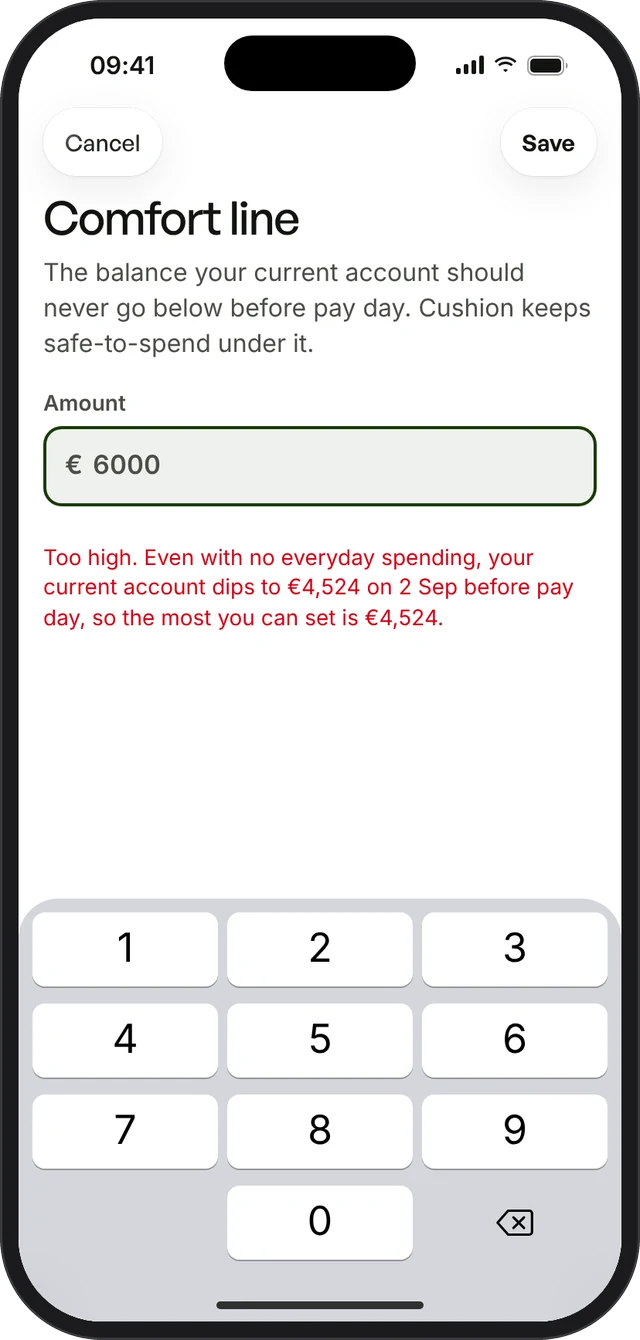
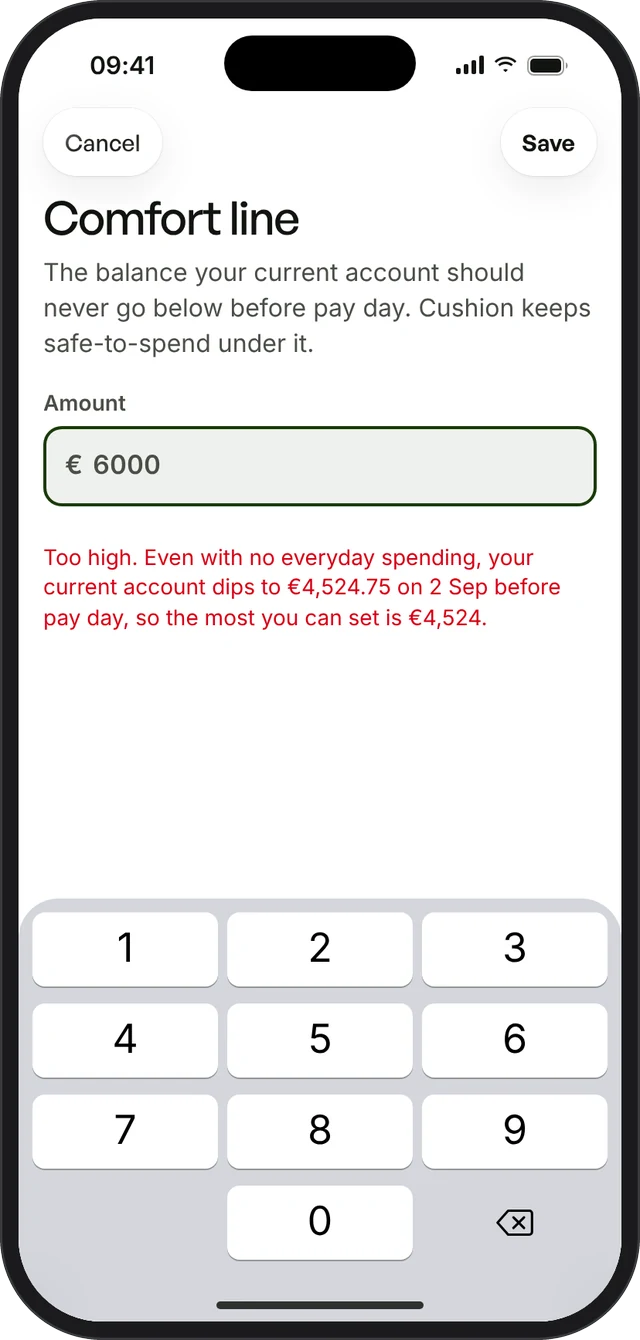
Cushion case study review fixes
- Typography: both faces get an Aa specimen, no empty gap; money card shows row amounts
- Problem quote labelled Before Cushion (photo isn't Lena)
- Intro quote card no longer padded with empty space on phones
- App: comfort-line error shows the exact low point, matching The month ahead

Claude-Session: https://claude.ai/code/session_01JSvXBzoWrq8YzxT9cABVqA

Changed region(s): [[0.4688, 0.4284, 0.9062, 0.4896], [0.125, 0.459, 0.4375, 0.4896], [0.0625, 0.459, 0.0938, 0.4896]]

diff --git a/cushion-case/index.html b/cushion-case/index.html
@@ -212,7 +212,16 @@ p { margin: 0; }
 .ts-name { font-size: 13px; color: var(--ink); display: grid; gap: 2px; }
 .ts-name em { font-style: normal; color: var(--muted); font-variant-numeric: tabular-nums; }
 .ts-demo { color: var(--ink); line-height: 1.15; min-width: 0; overflow-wrap: anywhere; }
-.money-type { align-content: space-between; gap: 20px; }
+.money-type { align-content: space-between; gap: 28px; }
+.mt-rows { display: grid; font-family: var(--sf); font-size: 15px; }
+.mt-rows div { display: flex; justify-content: space-between; gap: 12px; padding: 11px 0; border-top: 1px solid rgba(255, 255, 255, .1); color: #B9C7C1; }
+.mt-rows b { font-family: var(--sans); font-weight: 500; color: #fff; font-variant-numeric: tabular-nums; }
+.mt-rows b.in { color: var(--lime); }
+.tf { display: grid; gap: 12px; align-content: center; align-self: stretch; padding-bottom: 24px; }
+.tf + .tf { border-top: 1px solid var(--line); padding: 24px 0 0; }
+.tf .aa { font-size: 88px; }
+.tf h3 { font-size: 24px; font-weight: 400; margin: 0 0 4px; }
+.tf.sf, .tf.sf h3, .tf.sf .aa, .tf.sf .small { font-family: var(--sf); }
 .money-type .cap { font-size: 15px; font-weight: 500; font-family: var(--sf); }
 .big-num { font-size: 88px; font-weight: 500; letter-spacing: -.03em; line-height: 1; color: #fff; }
 .big-num .cur { font-size: .32em; vertical-align: .95em; font-weight: 400; margin-right: 4px; letter-spacing: .02em; opacity: .9; }
@@ -397,7 +406,7 @@ p { margin: 0; }
 .intro-cap { position: absolute; left: 0; right: 0; bottom: 0; padding: 60px 28px 26px; color: #fff; background: linear-gradient(0deg, rgba(12, 26, 24, .85), transparent); display: grid; gap: 6px; }
 .intro-cap h3 { font-size: 20px; font-weight: 500; }
 .intro-cap p { font-size: 13px; line-height: 1.5; color: #D3DFDA; max-width: 46ch; }
-@media (max-width: 760px) { .intro-grid { grid-template-columns: 1fr; } .intro-card, .intro-shot { min-height: 460px; } .intro-card { padding: 22px; } }
+@media (max-width: 760px) { .intro-grid { grid-template-columns: 1fr; } .intro-shot { min-height: 460px; } .intro-card { min-height: 0; padding: 32px 22px; } }
 </style>
 
 <!-- The Cushion mark, drawn once and reused -->
@@ -467,7 +476,7 @@ p { margin: 0; }
         <div class="float" style="right:14px;bottom:14px"><span class="k">Current account</span><span class="v" style="font-size:22px">€7,412.36</span><span class="k">Rent and insurance due in 8 days</span></div>
       </div>
       <div class="card" style="padding:24px;gap:18px;align-content:space-between">
-        <div style="display:grid;gap:10px"><span class="label">Lena, before Cushion</span>
+        <div style="display:grid;gap:10px"><span class="label">Before Cushion</span>
         <p class="quote">“I’m fine most of the month. It’s the <em>week before pay day</em> I can’t read.”</p></div>
         <div style="display:flex;gap:6px;flex-wrap:wrap"><span class="chip" style="background:#EFF1EC;color:var(--body)">Bills land together</span><span class="chip" style="background:#EFF1EC;color:var(--body)">Buffer lives in her head</span><span class="chip" style="background:#EFF1EC;color:var(--body)">Forgotten subscriptions</span></div>
       </div>
@@ -658,16 +667,16 @@ p { margin: 0; }
       </div>
     </div>
     <div class="grid ty-grid" style="grid-template-columns:minmax(0,1fr) minmax(0,1.4fr)">
-      <div class="card type-card" style="padding:28px;grid-template-columns:1fr;align-content:space-between;gap:28px">
-        <div style="display:grid;gap:10px">
+      <div class="card type-card" style="padding:28px;grid-template-columns:1fr;grid-template-rows:1fr 1fr;gap:0">
+        <div class="tf">
           <span class="aa">Aa</span>
-          <h3 style="font-size:28px;font-weight:400">General Sans</h3>
-          <p class="small">Screen titles, amounts and buttons.</p>
+          <div><h3>General Sans</h3><p class="small">Screen titles, amounts and buttons.</p></div>
           <div class="weights"><span style="font-weight:400">Regular</span><span style="font-weight:500">Medium</span></div>
         </div>
-        <div style="display:grid;gap:10px;border-top:1px solid var(--line);padding-top:24px;font-family:var(--sf)">
-          <h3 style="font-size:28px;font-weight:400;font-family:var(--sf)">SF Pro</h3>
-          <p class="small" style="font-family:var(--sf)">Everything else. Scales with Dynamic Type.</p>
+        <div class="tf sf">
+          <span class="aa">Aa</span>
+          <div><h3>SF Pro</h3><p class="small">Everything else. Scales with Dynamic Type.</p></div>
+          <div class="weights"><span style="font-weight:400">Regular</span><span style="font-weight:600">Semibold</span></div>
         </div>
       </div>
       <div class="card ts" style="padding:8px 24px"><div class="ts-row"><span class="ts-name">Large title<em>34 / 500 · General Sans</em></span><span class="ts-demo" style="font-size:34px;font-weight:500;letter-spacing:-.02em">Screen titles</span></div><div class="ts-row"><span class="ts-name">Title<em>22 / 500 · General Sans</em></span><span class="ts-demo" style="font-size:22px;font-weight:500;letter-spacing:-.01em">Sheet and card titles</span></div><div class="ts-row"><span class="ts-name">Amount<em>17 / 500 · General Sans</em></span><span class="ts-demo" style="font-size:17px;font-weight:500;font-variant-numeric:tabular-nums">€1,340.00</span></div><div class="ts-row"><span class="ts-name">Headline<em>17 / 600 · SF Pro</em></span><span class="ts-demo" style="font-family:var(--sf);font-size:17px;font-weight:600">Row titles</span></div><div class="ts-row"><span class="ts-name">Body<em>17 / 400 · SF Pro</em></span><span class="ts-demo" style="font-family:var(--sf);font-size:17px">Advisor answers, settings</span></div><div class="ts-row"><span class="ts-name">Subhead<em>15 / 400 · SF Pro</em></span><span class="ts-demo" style="font-family:var(--sf);font-size:15px">Transaction details</span></div><div class="ts-row"><span class="ts-name">Footnote<em>13 / 400 · SF Pro</em></span><span class="ts-demo" style="font-family:var(--sf);font-size:13px">Dates, hints under fields</span></div><div class="ts-row"><span class="ts-name">Caption<em>12 / 500 · SF Pro</em></span><span class="ts-demo" style="font-family:var(--sf);font-size:12px;font-weight:500">Labels on charts and pills</span></div></div>
@@ -676,6 +685,11 @@ p { margin: 0; }
       <div class="card money-type" style="padding:28px;background:var(--night);color:#fff">
         <span class="cap" style="color:var(--lime)">Safe to spend today</span>
         <span class="big-num"><span class="cur">€</span>88<span class="cents">.05</span></span>
+        <div class="mt-rows">
+          <div><span>REWE</span><b>−€48.20</b></div>
+          <div><span>Miete Oktober</span><b>−€1,150.00</b></div>
+          <div><span>Gehalt</span><b class="in">+€3,482.00</b></div>
+        </div>
       </div>
       <div class="card" style="padding:28px">
         <span class="pill-aa">WCAG 2.1 AA</span>

diff --git a/cushion/index.html b/cushion/index.html
@@ -2004,7 +2004,7 @@ function comfortMax(fc = forecast()) {
 function safeWithComfort(c) { const old = S.comfort; S.comfort = c; const sf = safety(); S.comfort = old; return sf.safe; }
 const comfortTooHigh = m => m.lo < 0
   ? `Your current account goes below zero ${onDay(m.day)} before pay day, even with no everyday spending, so a comfort line can't be kept this month. Set it to €0 for now.`
-  : `Too high. Even with no everyday spending, your current account dips to ${eur(m.max)} ${onDay(m.day)} before pay day, so the most you can set is ${eur(m.max)}.`;
+  : `Too high. Even with no everyday spending, your current account dips to ${eur(m.lo, 2)} ${onDay(m.day)} before pay day, so the most you can set is ${eur(m.max)}.`;
 function comfortPage() {
   return `<div class="nav"><button class="pill glass" data-act="back">Cancel</button><button class="pill glass" data-act="comfort-save"><b>Save</b></button></div>
     <div class="auth">
